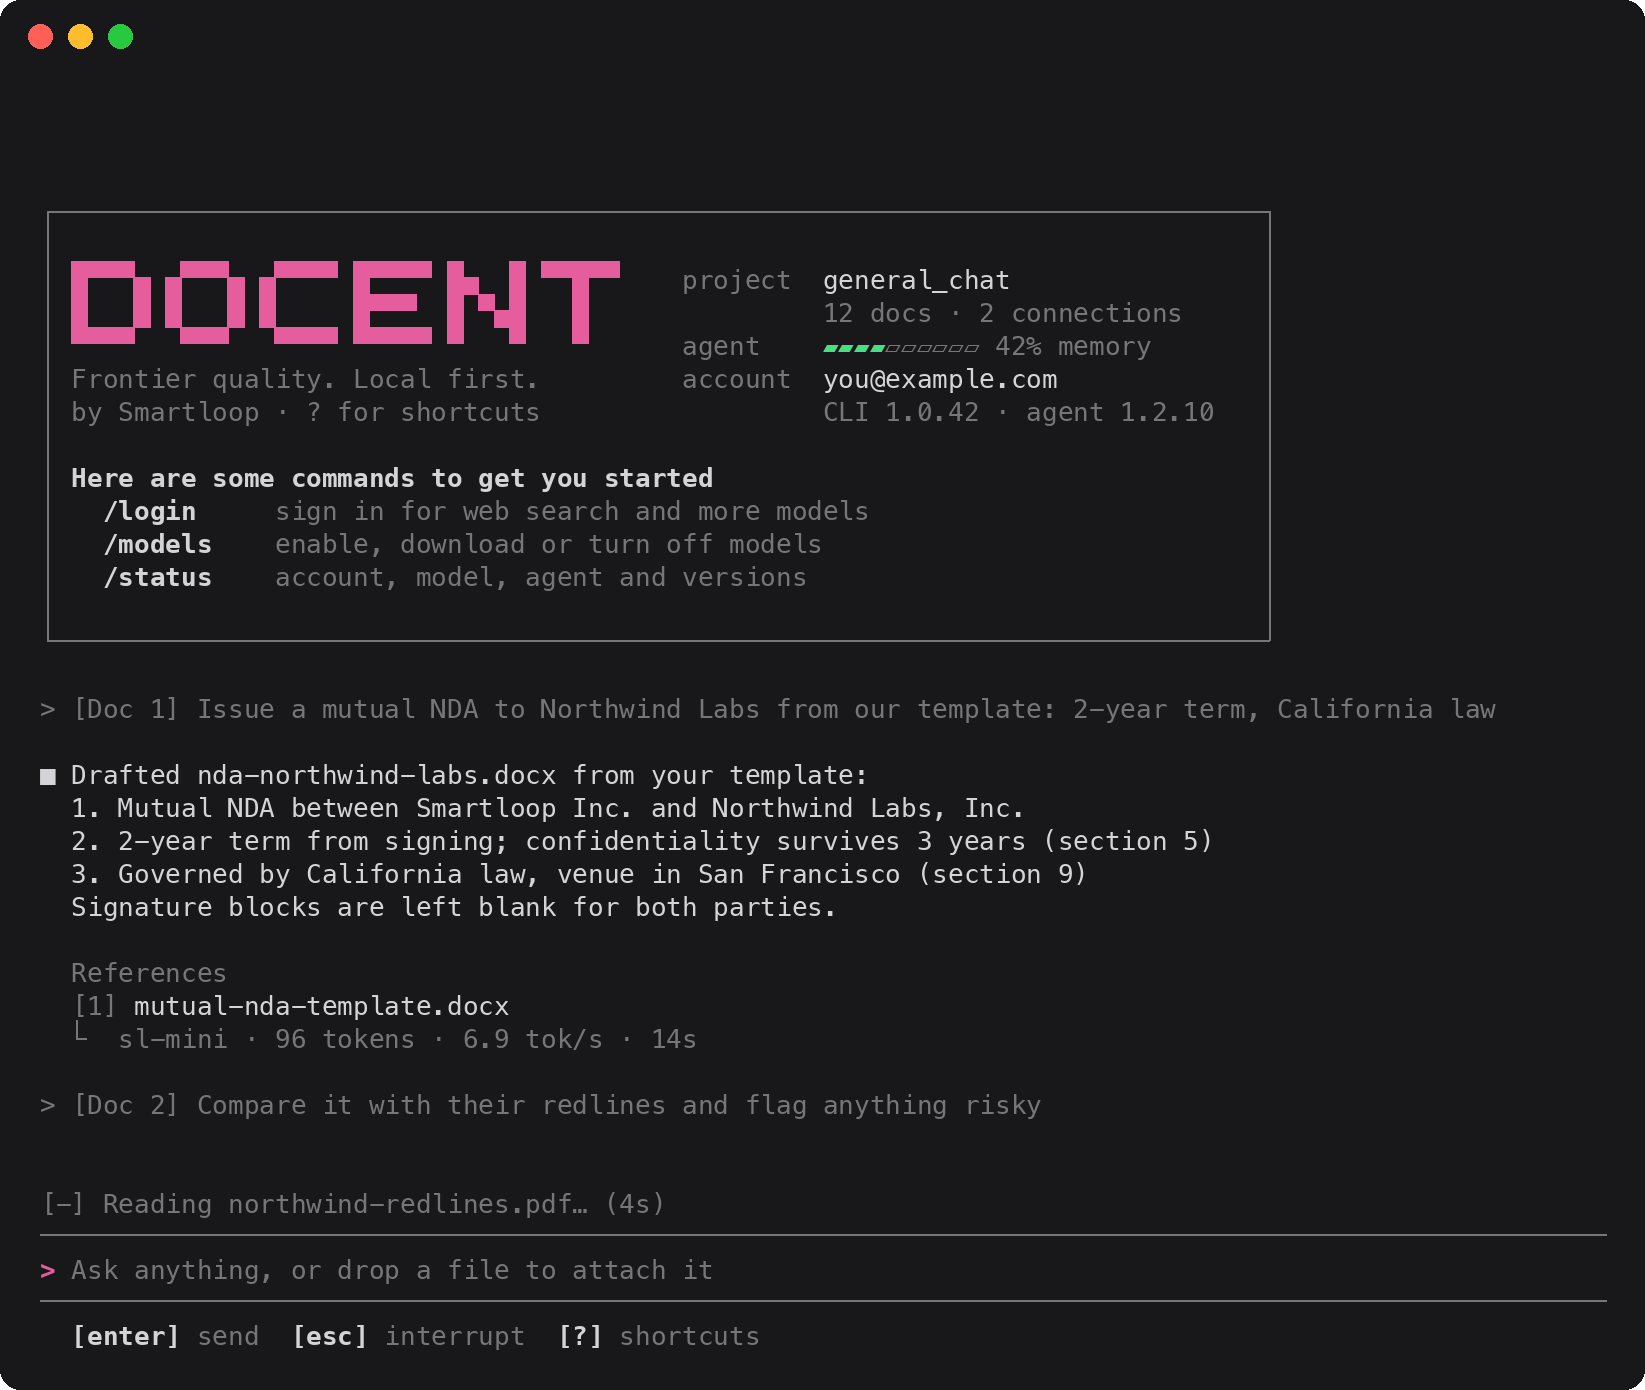
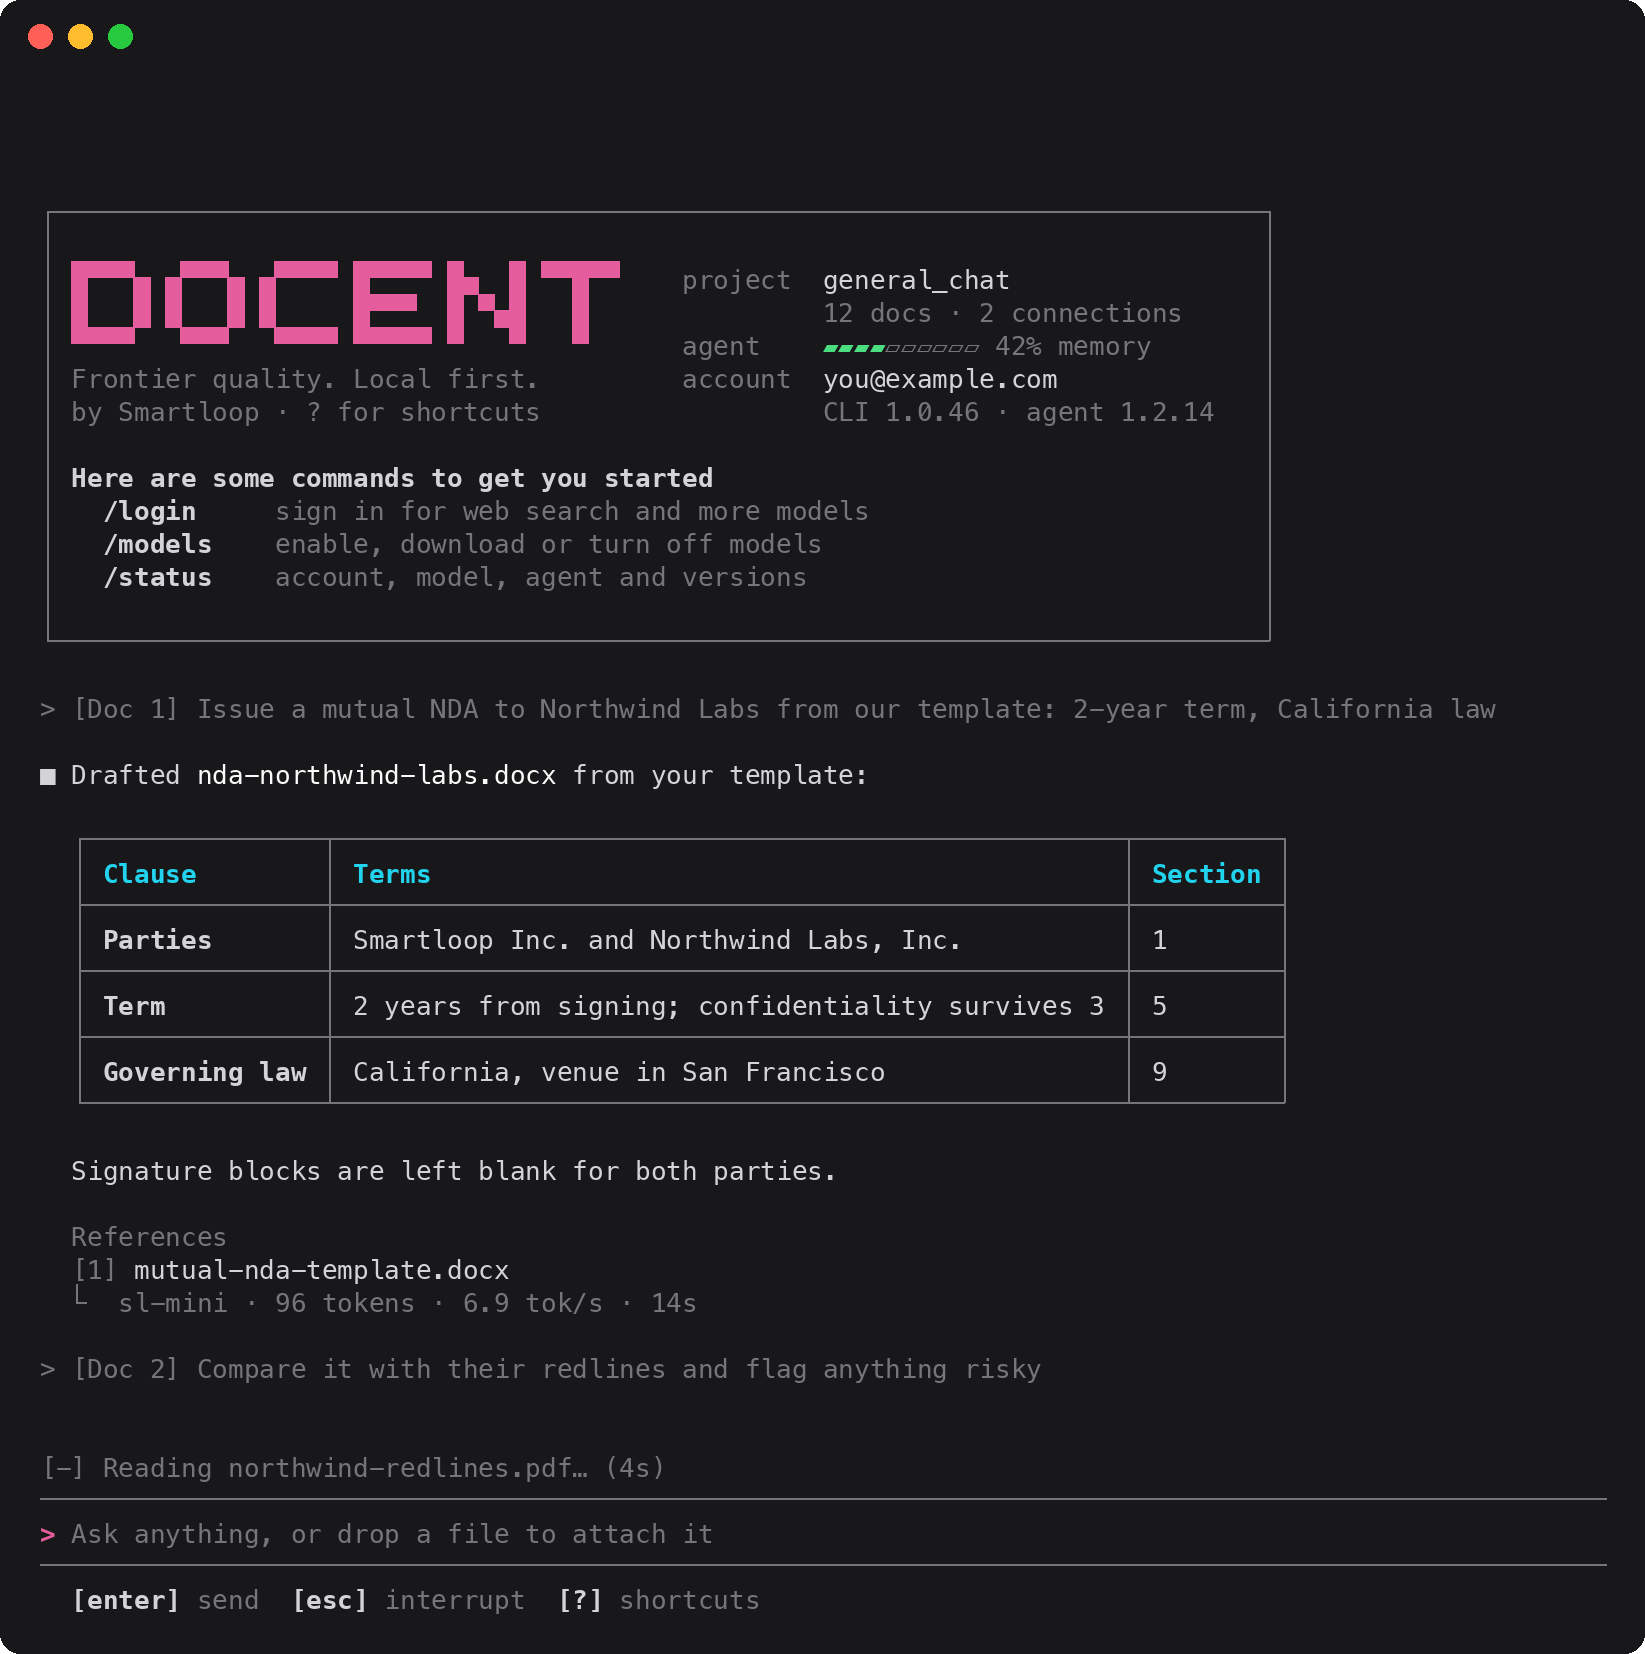
Show a markdown table in the README screenshot
The screenshot predated markdown replies and showed the reply as plain
text. The sample reply now lays out the NDA's terms as a table, with bold
and inline code, and the screen is taller so the welcome card still fits.
The renderer draws the table's square corners and joints as lines so its
borders meet like they do in a terminal.

diff --git a/docs/render-screenshot.py b/docs/render-screenshot.py
@@ -34,6 +34,15 @@ NAMED = {
     "DarkGray": (82, 82, 91),
 }
 
+# Which way each box character's lines run from the cell's center: up, down,
+# left, right. Tables use the square corners and joints, the welcome card the
+# round ones.
+ARMS = {
+    "│": "ud", "╭": "dr", "╮": "dl", "╰": "ur", "╯": "ul",
+    "┌": "dr", "┐": "dl", "└": "ur", "┘": "ul",
+    "├": "udr", "┤": "udl", "┬": "dlr", "┴": "ulr", "┼": "udlr",
+}
+
 
 def color(cell):
     fg = cell["fg"]
@@ -83,18 +92,20 @@ def main(source, target):
                 w = max(1, SCALE)
                 draw.line((cx, upper, cx, cy), fill=rgb, width=w)
                 draw.line((cx, cy, left + cell_w, cy), fill=rgb, width=w)
-            elif symbol in "│╭╮╰╯":
-                # Box edges meet their neighbors at the cell's center lines.
+            elif symbol in ARMS:
+                # Box edges and joints meet their neighbors at the cell's center lines.
                 w = max(1, SCALE)
                 cx, cy = left + cell_w / 2, upper + cell_h / 2
                 right, bottom = left + cell_w + 1, upper + cell_h + 1
-                if symbol == "│":
-                    draw.line((cx, upper, cx, bottom), fill=rgb, width=w)
-                else:
-                    horizontal = (cx, right) if symbol in "╭╰" else (left, cx)
-                    vertical = (cy, bottom) if symbol in "╭╮" else (upper, cy)
-                    draw.line((horizontal[0], cy, horizontal[1], cy), fill=rgb, width=w)
-                    draw.line((cx, vertical[0], cx, vertical[1]), fill=rgb, width=w)
+                arms = ARMS[symbol]
+                if "l" in arms or "r" in arms:
+                    x0 = left if "l" in arms else cx
+                    x1 = right if "r" in arms else cx
+                    draw.line((x0, cy, x1, cy), fill=rgb, width=w)
+                if "u" in arms or "d" in arms:
+                    y0 = upper if "u" in arms else cy
+                    y1 = bottom if "d" in arms else cy
+                    draw.line((cx, y0, cx, y1), fill=rgb, width=w)
             elif symbol in "─▀▄█":
                 # Block and rule characters fill their cell edge to edge.
                 if symbol == "─":

diff --git a/src/tui.rs b/src/tui.rs
@@ -3528,9 +3528,11 @@ mod tests {
             warnings: Vec::new(),
             model: Some("sl-mini".into()),
             text: "Drafted `nda-northwind-labs.docx` from your template:\n\n\
-                   1. **Mutual NDA** between Smartloop Inc. and Northwind Labs, Inc.\n\
-                   2. **2-year term** from signing; confidentiality survives 3 years (section 5)\n\
-                   3. Governed by **California law**, venue in San Francisco (section 9)\n\n\
+                   | Clause | Terms | Section |\n\
+                   |---|---|---|\n\
+                   | **Parties** | Smartloop Inc. and Northwind Labs, Inc. | 1 |\n\
+                   | **Term** | 2 years from signing; confidentiality survives 3 | 5 |\n\
+                   | **Governing law** | California, venue in San Francisco | 9 |\n\n\
                    Signature blocks are left blank for both parties."
                 .into(),
             citations: vec!["mutual-nda-template.docx".into()],
@@ -3550,7 +3552,7 @@ mod tests {
         });
         app.input = "".into();
 
-        let (width, height) = (100, 38);
+        let (width, height) = (100, 46);
         let mut terminal = Terminal::new(TestBackend::new(width, height)).unwrap();
         terminal.draw(|f| app.draw(f)).unwrap();
         let buffer = terminal.backend().buffer();
